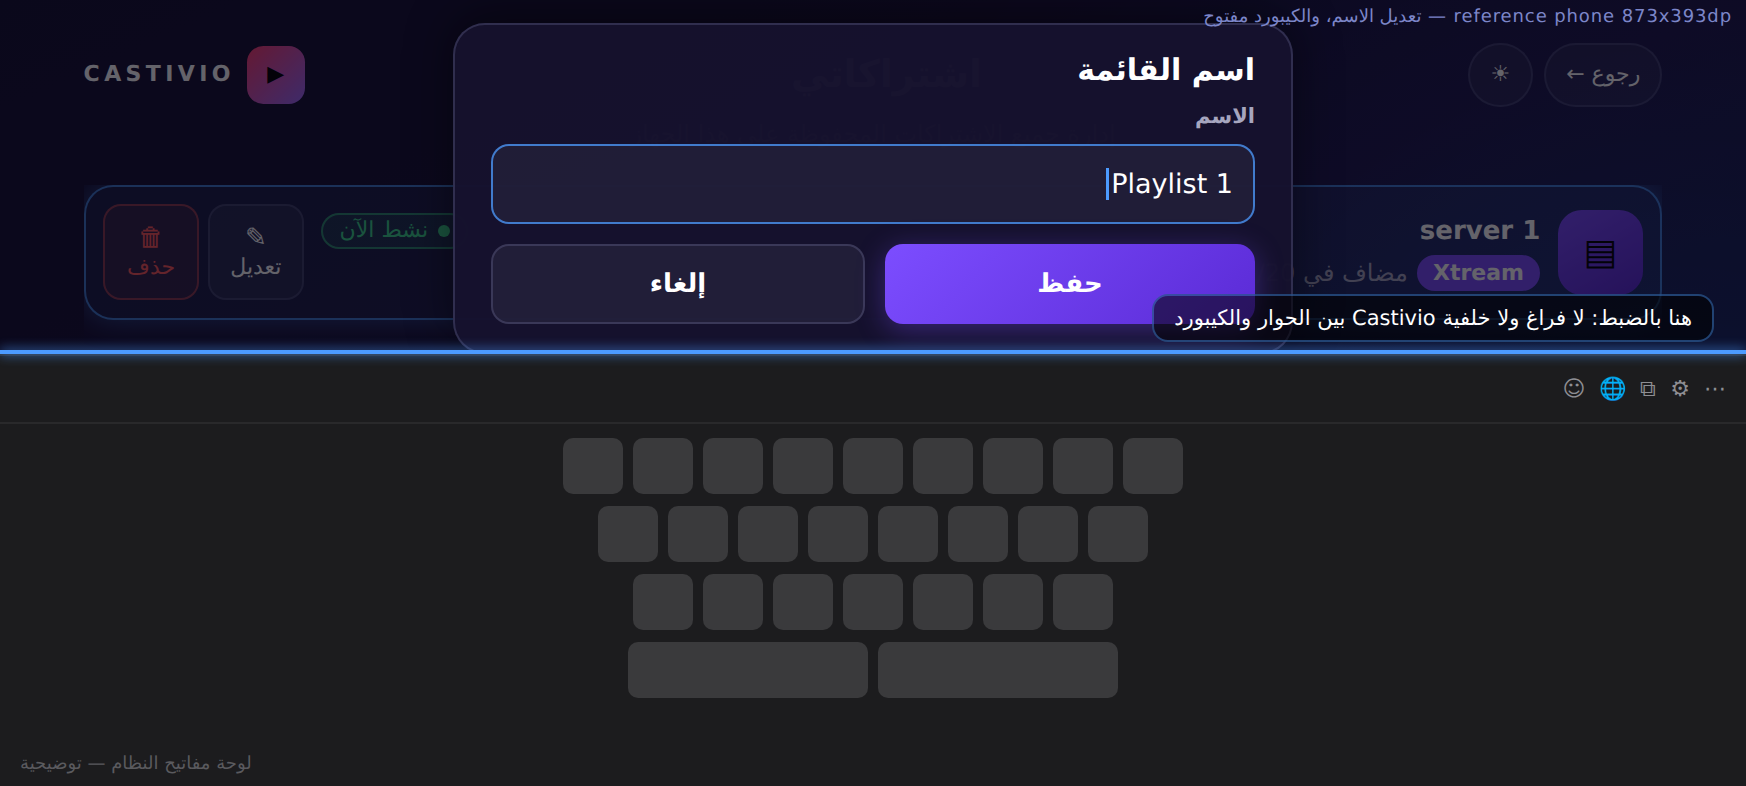
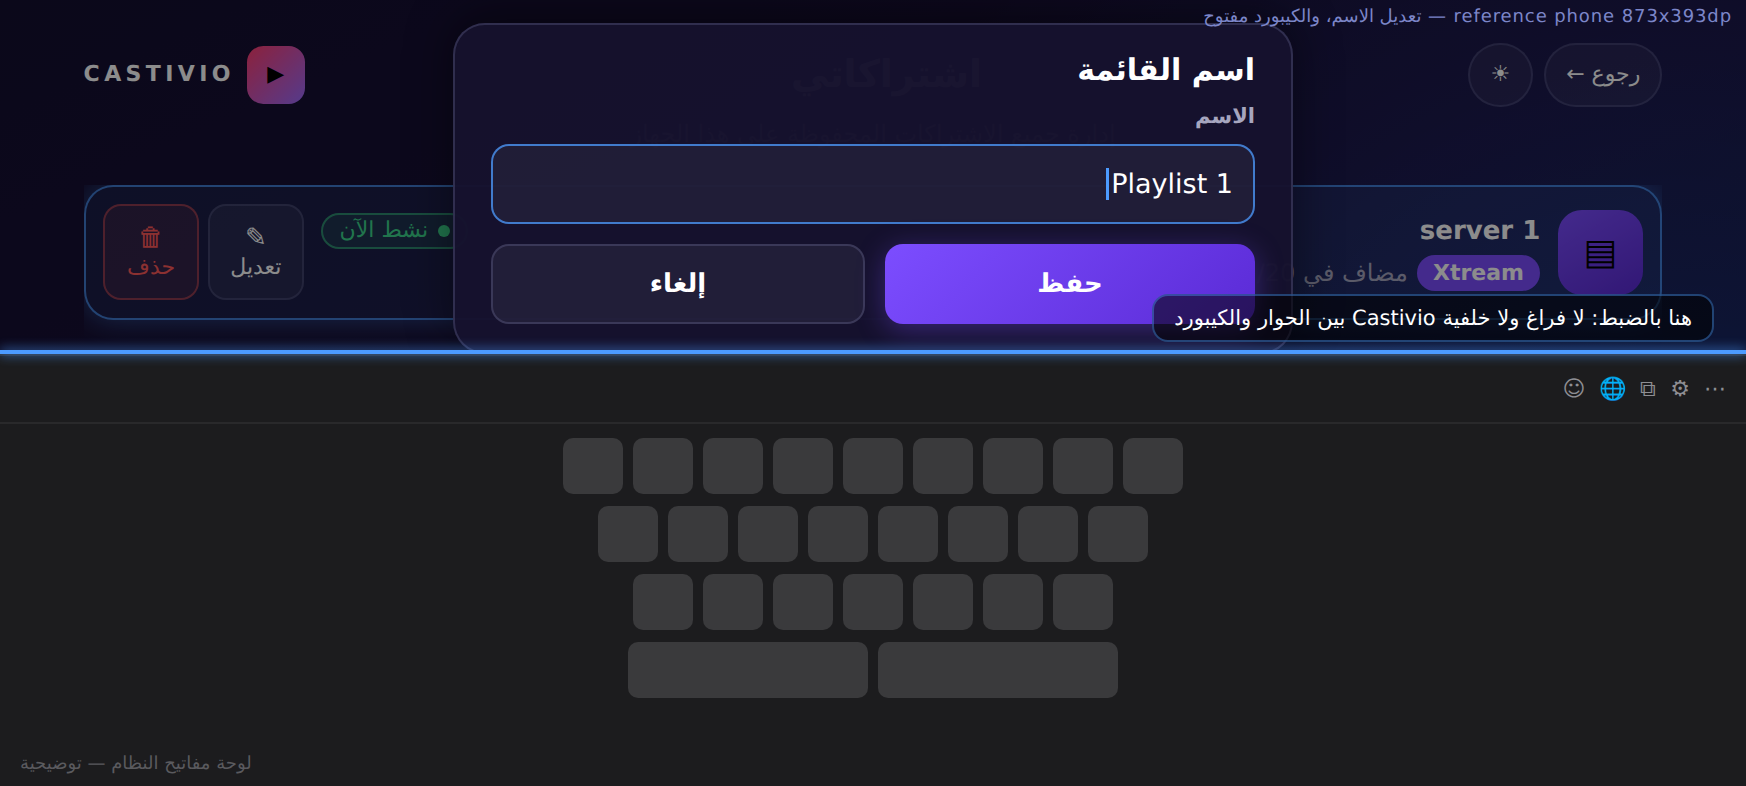
design(activation): the keyboard mockup dims the way the build dims
It drew a tinted scrim at 62 per cent, which is what it was written with before the
scrim itself was decided. The token ships pure black at 45. A mockup that dims
differently from the build is a mockup nobody can hold the build against, and this
one exists precisely to be held against it.

The asset only; no code.

Claude-Session: https://claude.ai/code/session_011AJmBREqNiH8exQNKLcMCr

diff --git a/design/mockups/saved-sources-rename-keyboard.html b/design/mockups/saved-sources-rename-keyboard.html
@@ -71,7 +71,10 @@ body{background:#000}
 
 /* ---- the state in question: IME open, landscape ---- */
 
-.scrim{position:absolute;inset:0;background:rgba(5,4,14,.62)}
+/* The shipped token: pure black at 45 per cent. Not a tinted 62, which is what this
+   file drew before the scrim was decided — a mockup that dims differently from the
+   build is a mockup nobody can check anything against. */
+.scrim{position:absolute;inset:0;background:rgba(0,0,0,.45)}
 
 /* The system keyboard. Illustrative only — never drawn by this app, and its
    colour and key shapes are not a claim about any real IME. What matters for
